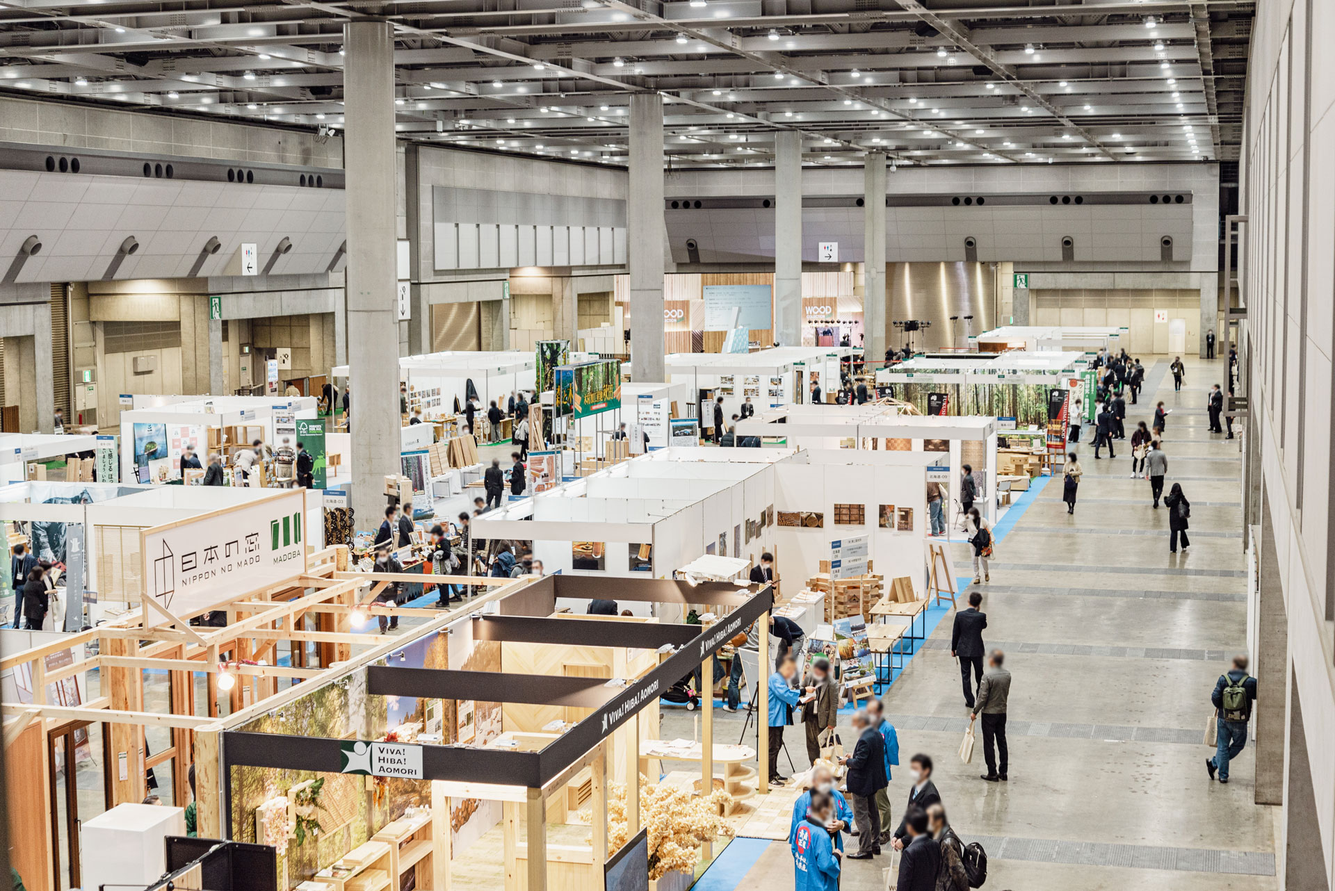
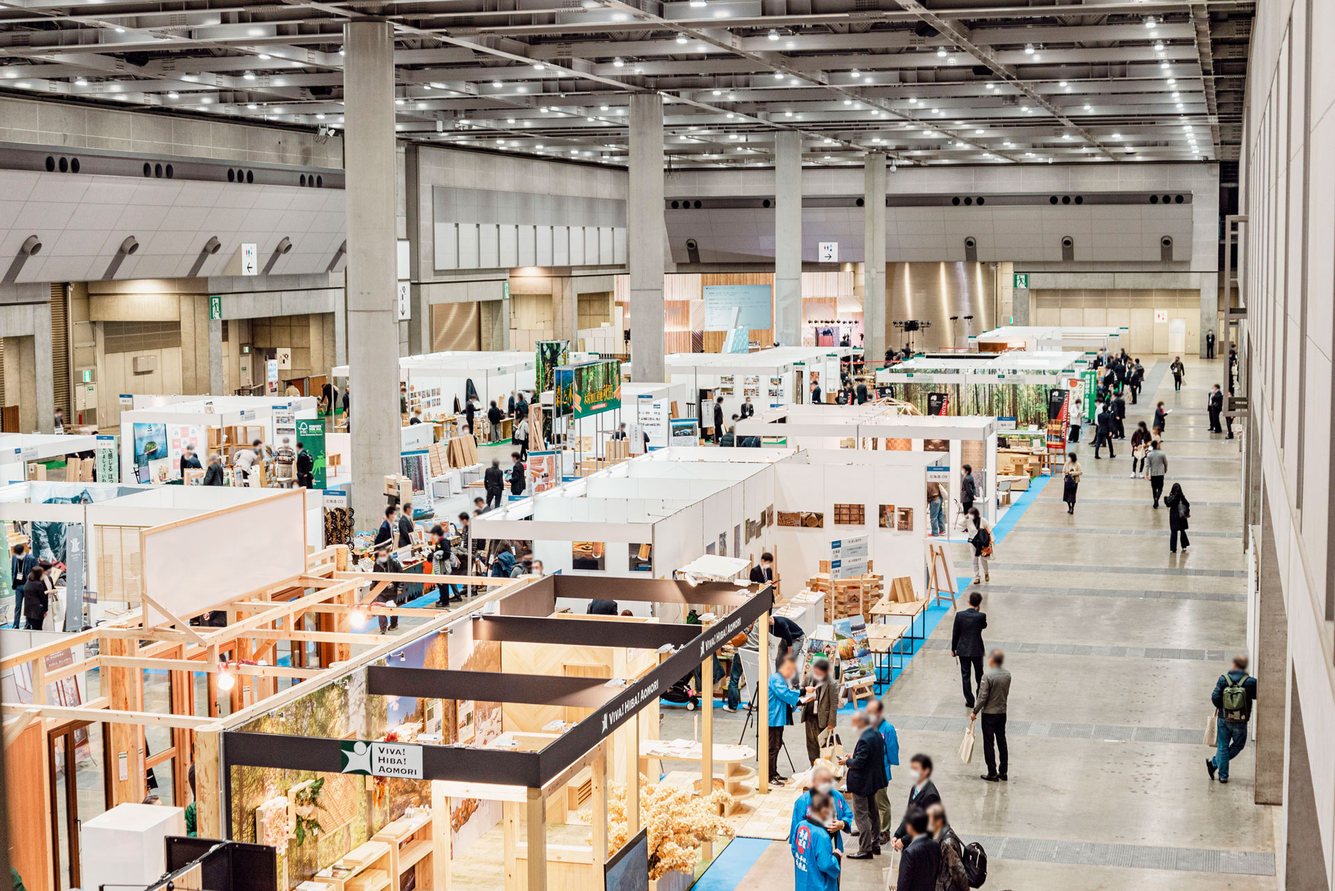
slide差替え

diff --git a/app/components/section/Main.tsx b/app/components/section/Main.tsx
@@ -1,0 +1,9 @@
+import React from 'react'
+
+const Main = () => {
+  return (
+    <div>Main</div>
+  )
+}
+
+export default Main
